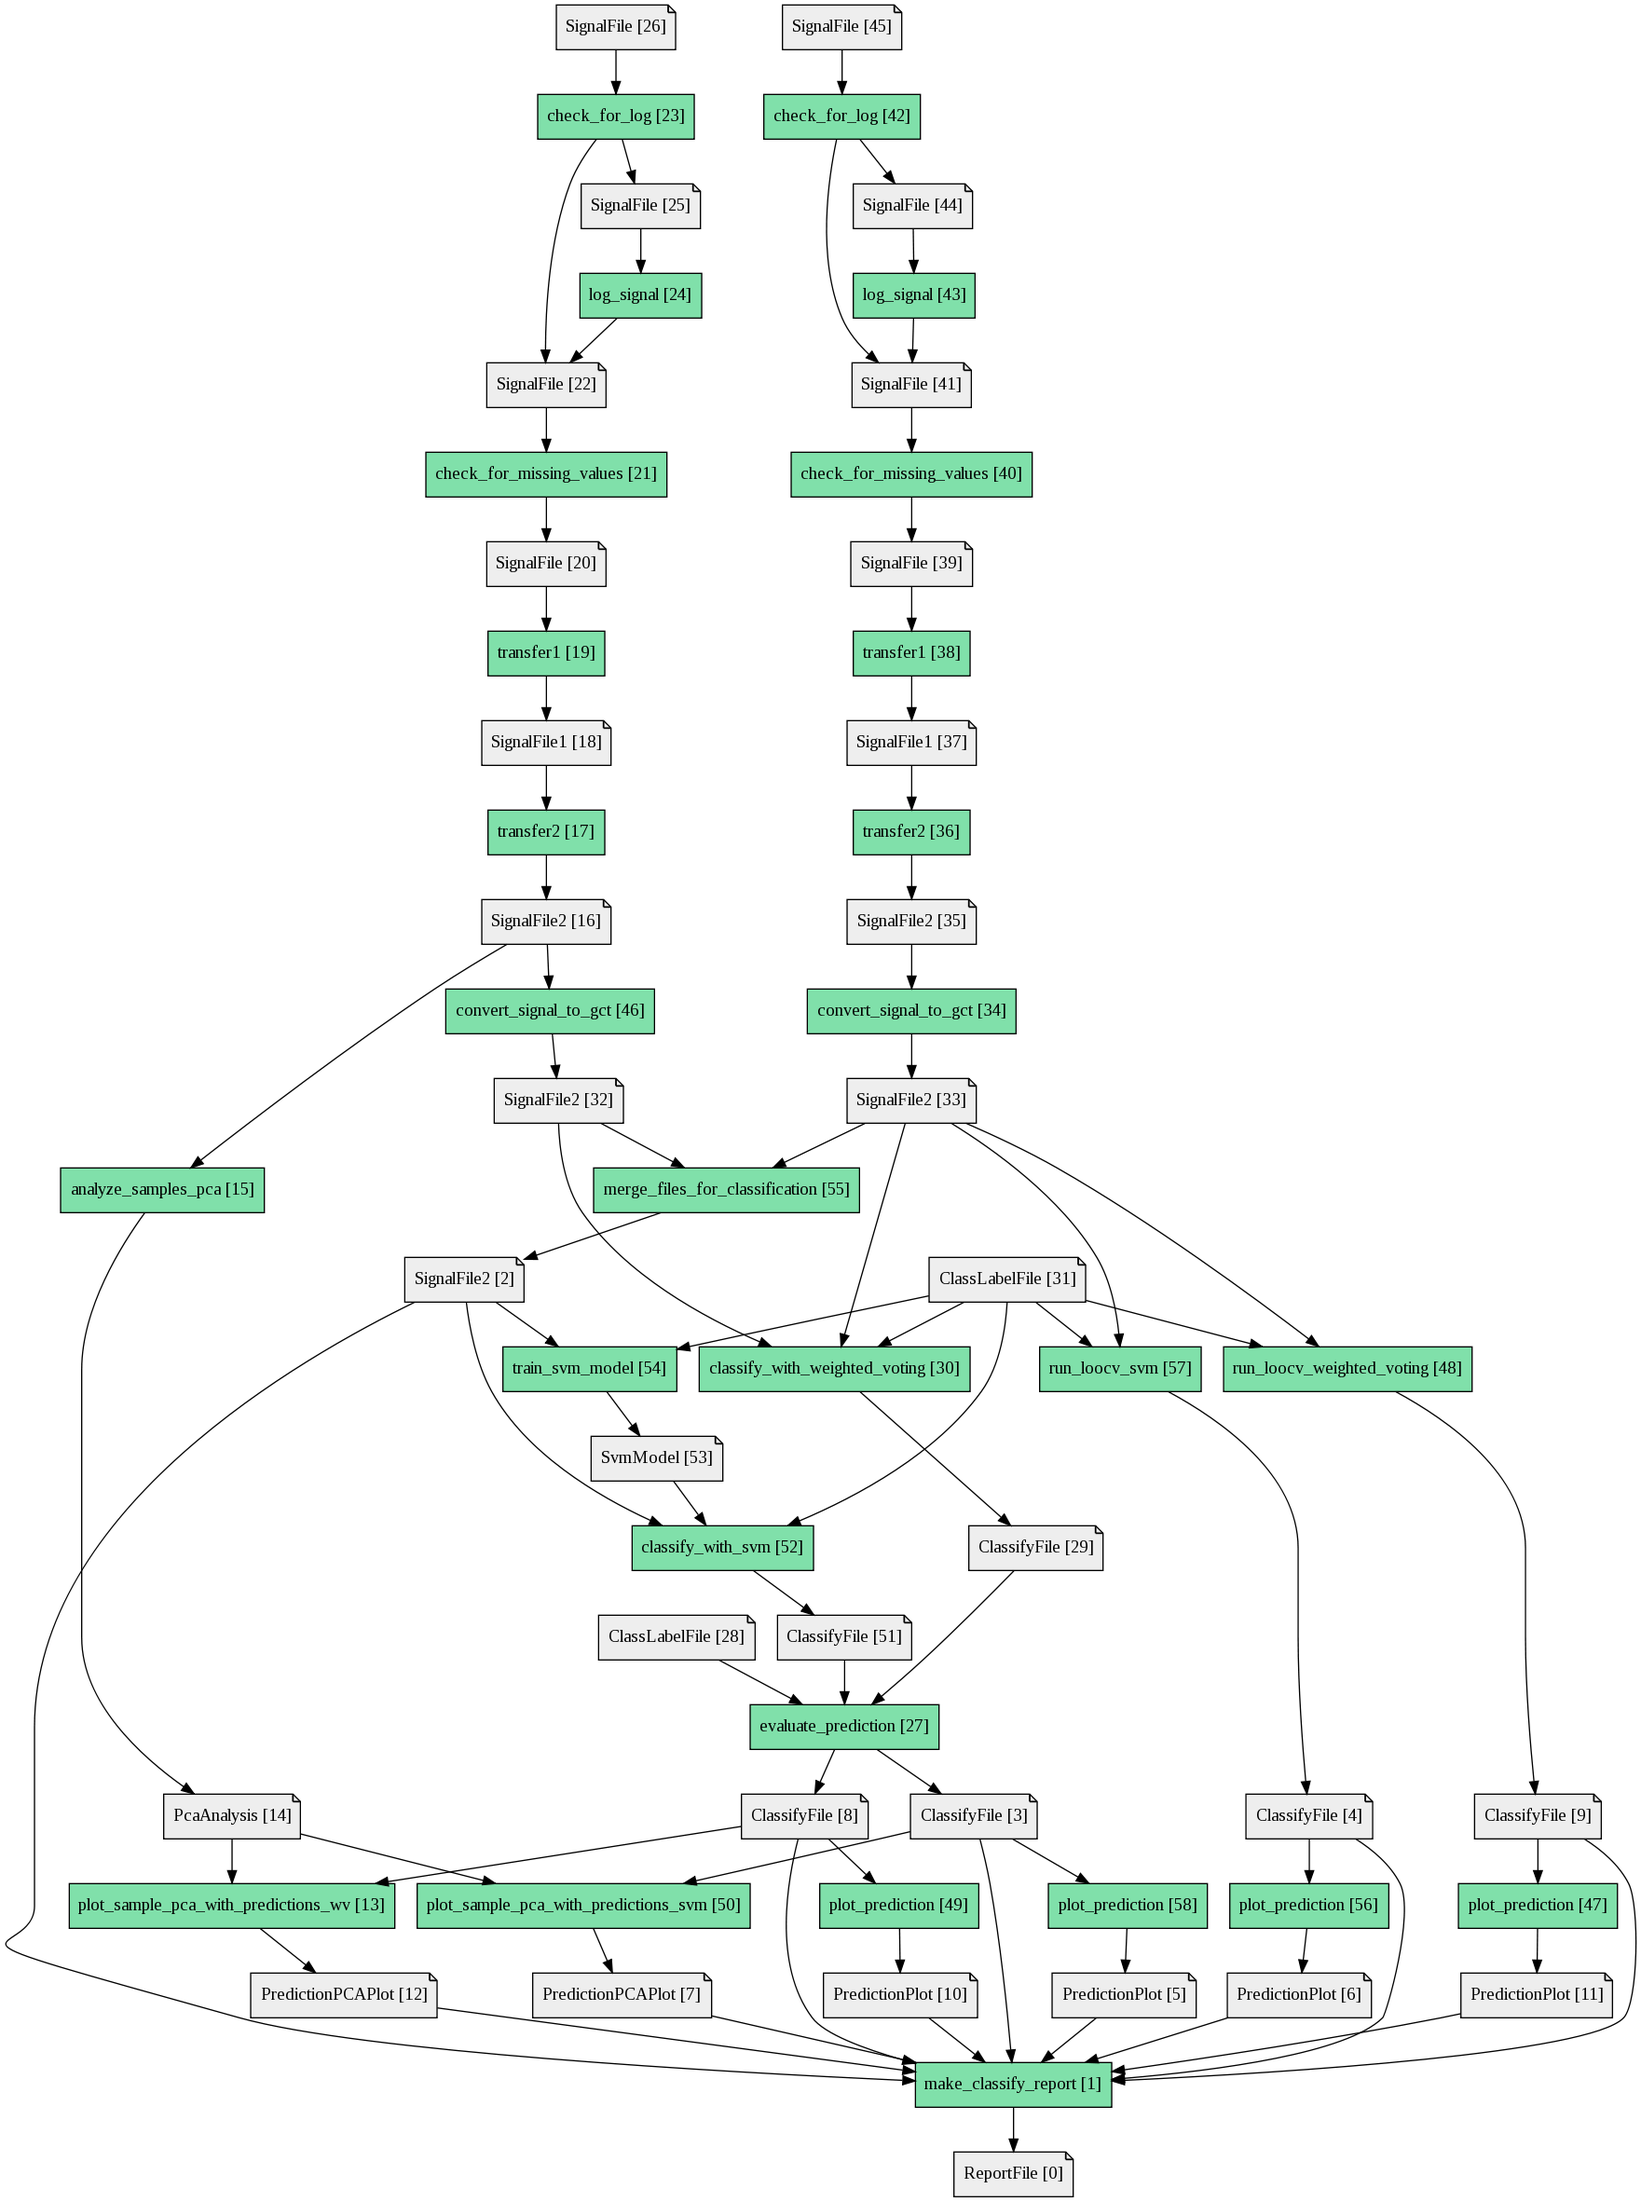
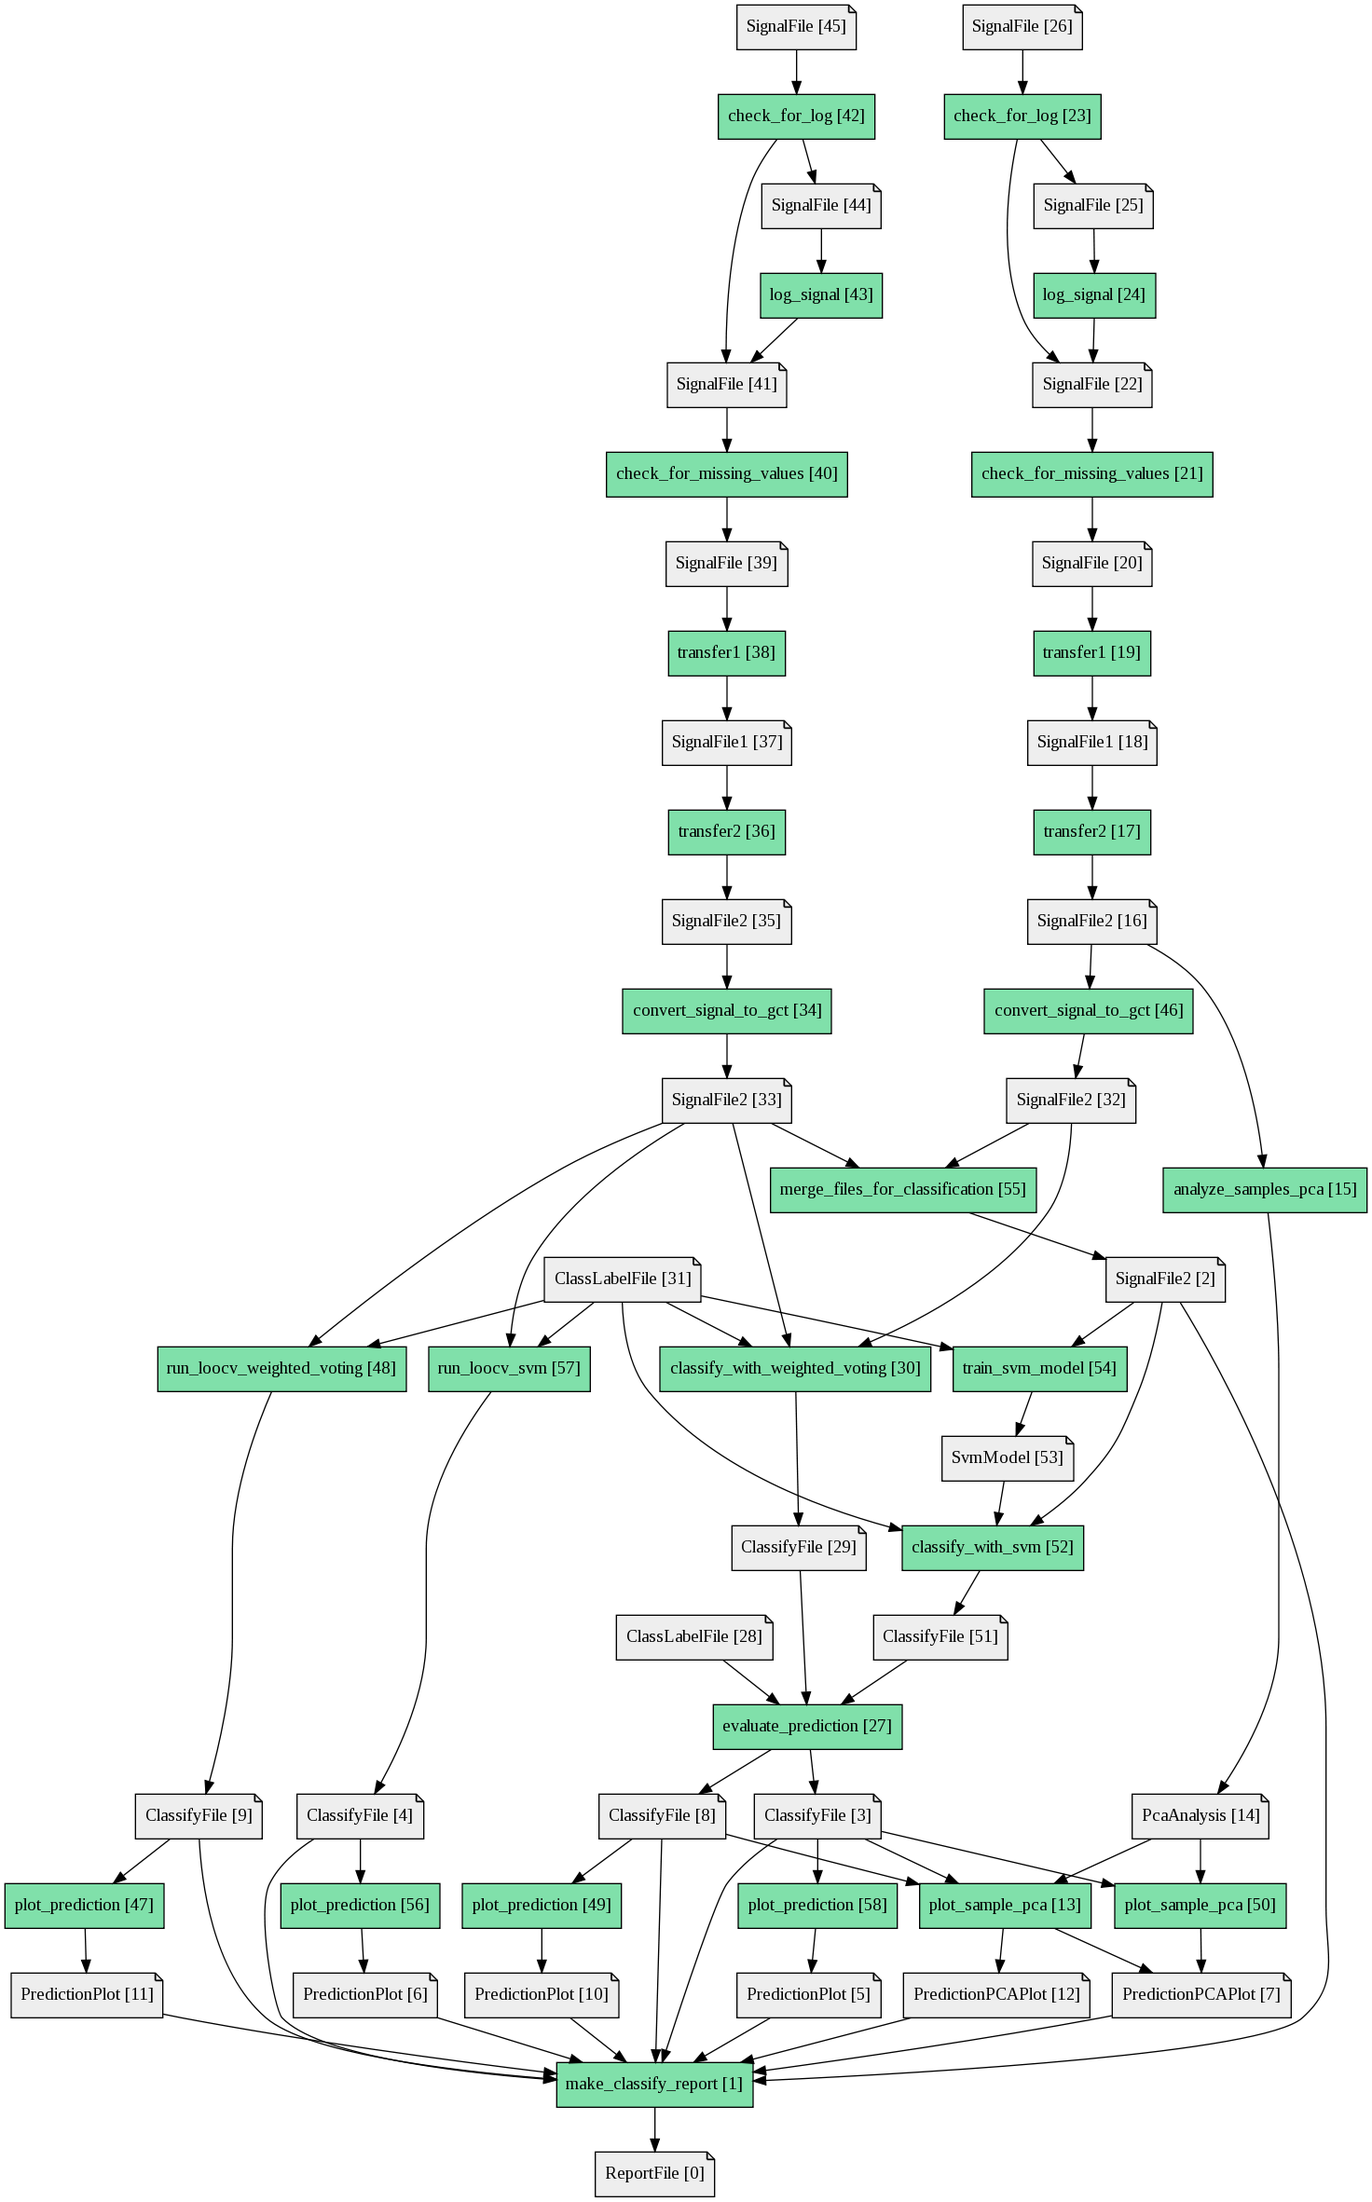
update test_case.py

diff --git a/Betsy_2version/Betsy/modules/run_loocv_svm.py b/Betsy_2version/Betsy/modules/run_loocv_svm.py
@@ -13,11 +13,11 @@ def run(in_nodes,parameters, network):
     M = arrayio.read(data_node.attributes['filename'])
     a,training_label,second_line = read_label_file.read(cls_node.attributes['filename'])
     full_index = range(M.ncol())
-    predict_model = __import__('modules.' + 'classify_with_svm',globals(),
+    predict_model = __import__('Betsy.modules.' + 'classify_with_svm',globals(),
                                  locals(),['classify_with_svm'],-2)
-    train_model = __import__('modules.' + 'train_svm_model',globals(),
+    train_model = __import__('Betsy.modules.' + 'train_svm_model',globals(),
                                  locals(),['train_svm_model'],-2)
-    evaluate_model =  __import__('modules.' + 'evaluate_prediction',globals(),
+    evaluate_model =  __import__('Betsy.modules.' + 'evaluate_prediction',globals(),
                                  locals(),['evaluate_prediction'],-2)  
     f = file(outfile,'w')
     f.write('\t'.join(['sample_name','Predicted_class','Confidence','Actual_class','Correct?']))
@@ -45,10 +45,10 @@ def run(in_nodes,parameters, network):
         for key in rulebase.SvmModel.get_defaults():
             new_parameters[key]=parameters[key]
         x1 = merge_node,train_label_node
-        svm_model = train_model.run(x1,new_parameters)
+        svm_model = train_model.run(x1,new_parameters,network)
         x = svm_model,merge_node,train_label_node
-        out_node = predict_model.run(x,parameters)
-        out_node_label=evaluate_model.run((out_node,test_label_node),new_parameters)
+        out_node = predict_model.run(x,parameters,network)
+        out_node_label=evaluate_model.run((out_node,test_label_node),new_parameters,network)
         f1 = open(out_node_label.attributes['filename'],'r')
         lines = f1.readlines()
         f1.close()

diff --git a/Betsy_2version/scripts/run_protocol.py b/Betsy_2version/scripts/run_protocol.py
@@ -106,28 +106,30 @@ def main():
         in_data.append(eval('rulebase.'+datatype +'('+attributes+')'))
     goal_datatype = eval('rulebase.'+module.OUTPUTS)
     goal_attributes = parameters
-    #print goal_datatype.name
-    #print in_data
-    #print goal_attributes
     if args.describe_protocol:
         print 'INPUTS', module.INPUTS   
         print 'OUTPUTS', module.OUTPUTS  
         print 'PARAMETERS', module.PARAMETERS
     print 'Generating network...'
-    network = bie.backchain(rulebase.all_modules, goal_datatype, goal_attributes)
-    network = bie.optimize_network(network)
-    network = bie.prune_network_by_start(network, in_data)
+##    network = bie.backchain(rulebase.all_modules, goal_datatype, goal_attributes)
+##    network = bie.optimize_network(network)
+##    network = bie.prune_network_by_start(network, in_data)
+    import pickle
+    f=file('network_classify_report','rb')
+    network = pickle.load(f)
+    f.close()
     assert network, ('No network has been generated, '
                        'please check your command.')
     if args.network:
         print args.network
+        bie._print_network(network)
         bie._plot_network_gv(args.network, network)
     if args.dry_run:
         bie._print_network(network)
     else:
-        rule_engine_bie.run_pipeline(network,in_datas)
-        print 'All pipelines have completed successfully.'
-    
+        rule_engine_bie.run_pipeline(network,in_data)
+        print 'The network has completed successfully.'
+       
         
 if __name__ == '__main__':
     main()

diff --git a/Betsy_2version/Betsy/modules/run_loocv_weighted_voting.py b/Betsy_2version/Betsy/modules/run_loocv_weighted_voting.py
@@ -14,9 +14,9 @@ def run(in_nodes,parameters, network):
     a,training_label,second_line = read_label_file.read(
         cls_node.attributes['filename'])
     full_index = range(M.ncol())
-    predict_model = __import__('modules.' + 'classify_with_weighted_voting',globals(),
+    predict_model = __import__('Betsy.modules.' + 'classify_with_weighted_voting',globals(),
                                  locals(),['classify_with_weighted_voting'],-2)
-    evaluate_model =  __import__('modules.' + 'evaluate_prediction',globals(),
+    evaluate_model =  __import__('Betsy.modules.' + 'evaluate_prediction',globals(),
                                  locals(),['evaluate_prediction'],-2)
     f = file(outfile,'w')
     f.write('\t'.join(['sample_name','Predicted_class','Confidence','Actual_class','Correct?']))
@@ -50,8 +50,8 @@ def run(in_nodes,parameters, network):
         test_label_node = rulebase.ClassLabelFile(contents='test',
                                                   filename='test_label'+'_'+str(i))
         x= train_node,test_node,train_label_node
-        out_node = predict_model.run(x,parameters)
-        out_node_label=evaluate_model.run((out_node,test_label_node),parameters)
+        out_node = predict_model.run(x,parameters,network)
+        out_node_label=evaluate_model.run((out_node,test_label_node),parameters,network)
         f1 = open(out_node_label.attributes['filename'],'r')
         lines = f1.readlines()
         f1.close()

diff --git a/Betsy_2version/Betsy/modules/run_loocv_random_forest.py b/Betsy_2version/Betsy/modules/run_loocv_random_forest.py
@@ -13,9 +13,9 @@ def run(in_nodes,parameters, network):
     M = arrayio.read(data_node.attributes['filename'])
     a,training_label,second_line = read_label_file.read(cls_node.attributes['filename'])
     full_index = range(M.ncol())
-    predict_model = __import__('modules.' + 'classify_with_random_forest',globals(),
+    predict_model = __import__('Betsy.modules.' + 'classify_with_random_forest',globals(),
                                  locals(),['classify_with_random_forest'],-2)
-    evaluate_model =  __import__('modules.' + 'evaluate_prediction',globals(),
+    evaluate_model =  __import__('Betsy.modules.' + 'evaluate_prediction',globals(),
                                  locals(),['evaluate_prediction'],-2)  
     f = file(outfile,'w')
     f.write('\t'.join(['sample_name','Predicted_class','Confidence','Actual_class','Correct?']))
@@ -43,8 +43,8 @@ def run(in_nodes,parameters, network):
         for key in rulebase.SvmModel.get_defaults():
             new_parameters[key]=parameters[key]
         x = merge_node,train_label_node
-        out_node = predict_model.run(x,parameters)
-        out_node_label=evaluate_model.run((out_node,test_label_node),new_parameters)
+        out_node = predict_model.run(x,parameters,network)
+        out_node_label=evaluate_model.run((out_node,test_label_node),new_parameters,network)
         f1 = open(out_node_label.attributes['filename'],'r')
         lines = f1.readlines()
         f1.close()

diff --git a/Betsy_2version/Betsy/bie_rules/ClassifyFile_rule.py b/Betsy_2version/Betsy/bie_rules/ClassifyFile_rule.py
@@ -117,18 +117,14 @@ all_modules = [
                         actual_label=['yes','no'],loocv=['yes','no']),
          PredictionPlot(classify_alg=['weighted_voting','svm','random_forest'],
                         actual_label=['yes','no'],loocv=['yes','no'])),
+
     bie.Module(
-        'plot_sample_pca_with_predictions_svm',
-         [ClassifyFile(classify_alg='svm',
-                        actual_label=['yes','no'],loocv=['yes','no']),
+        'plot_sample_pca_with_predictions',
+         [ClassifyFile(classify_alg=['svm','weighted_voting',
+                                     'random_forest'],actual_label=['yes','no'],
+                       loocv=['yes','no']),
           PcaAnalysis_rule.PcaAnalysis(process='after',contents='test')],
-          PredictionPCAPlot(classify_alg='svm',
-                        actual_label=['yes','no'],loocv=['yes','no'])),
-    bie.Module(
-        'plot_sample_pca_with_predictions_wv',
-         [ClassifyFile(classify_alg='weighted_voting',
-                        actual_label=['yes','no'],loocv=['yes','no']),
-          PcaAnalysis_rule.PcaAnalysis(process='after',contents='test')],
-          PredictionPCAPlot(classify_alg='weighted_voting',
+          PredictionPCAPlot(classify_alg=['svm','weighted_voting',
+                                     'random_forest'],
                         actual_label=['yes','no'],loocv=['yes','no'])),
     ]

diff --git a/Betsy_2version/scripts/temp_testcase.py b/Betsy_2version/scripts/temp_testcase.py
@@ -290,5 +290,34 @@
 ##    f=file('network_genesetnetwork','wb')
 ##    pickle.dump(network,f)
 ##    f.close()
-#import cProfile; cProfile.run("test_bie()")
+from Betsy import rulebase
+from Betsy import bie
+def test_bie():
+     in_data=[
+        rulebase.SignalFile(
+            preprocess="rma", format="jeffs",
+            filename='/home/xchen/chencode/betsy_test/all_aml_train.res'),
+        rulebase.ClassLabelFile(
+            filename='/home/xchen/chencode/betsy_test/all_aml_train.cls',
+            cls_format='cls')
+        ]
+     goal_datatype = rulebase.SignalFile
+     goal_attributes = dict(
+        format='tdf', logged='yes', preprocess="rma",
+        missing_values='no',combat_norm='yes',quantile_norm='yes'
+        )
+
+     network = bie.backchain(
+        rulebase.all_modules, goal_datatype, goal_attributes)
+     network = bie.optimize_network(network)
+     network = bie.prune_network_by_start(network, in_data)
+ 
+     #order by quantile and then combat
+     network = bie.prune_network_by_internal(
+        network, rulebase.SignalFile(quantile_norm="yes", combat_norm="no"))
+
+     bie._print_network(network)
+     bie._plot_network_gv("out.png", network)
+
+import cProfile; cProfile.run("test_bie()")
 #test_bie()

diff --git a/Betsy_2version/scripts/test_case.py b/Betsy_2version/scripts/test_case.py
@@ -155,14 +155,35 @@ def run_case6():
     bie._print_network(network)
     bie._plot_network_gv("out.png", network)
 
+def run_case7():
+    in_data = [
+        rulebase.SignalFile(
+            contents='class0', format='tdf',
+            filename='/home/xchen/chencode/betsy_test/all_aml_train.res'),
+        ]
+    
+    goal_datatype = rulebase.SignalFile2
+    goal_attributes = dict(contents='class0',quantile_norm='yes',
+                           bfrm_norm='yes',gene_center='mean',
+                           gene_normalize='variance')
+
+    network = bie.backchain(
+        rulebase.all_modules, goal_datatype, goal_attributes)
+    network = bie.optimize_network(network)
+    network = bie.prune_network_by_start(network, in_data)
+    bie._print_network(network)
+    bie._plot_network_gv("out.png", network)
 
 def main():
-    run_case1()
+    import cProfile 
+    #run_case1()
     #run_case2()
     #run_case3()
     #run_case4()
     #run_case5()
     #run_case6()
+    #run_case7()
+    cProfile.run("run_case7()")
 
 
 if __name__ == '__main__':

diff --git a/Betsy_2version/Betsy/rule_engine_bie.py b/Betsy_2version/Betsy/rule_engine_bie.py
@@ -374,6 +374,7 @@ def run_module(network, module_id, module_node, pool, pipeline_sequence,
     os.chdir(working_dir)
     out_nodes = get_outnode(
         network, module_id, module, current_attributes, pool)
+    assert out_nodes,'module %s fails' %module_node.name
     return out_nodes
 
 def run_pipeline(network, in_data):
@@ -431,11 +432,11 @@ def run_pipeline(network, in_data):
                     if stack_list:
                         stack_list.insert(0,(data_node, node_id))
                         num_failures += 1
-        if not stack_list and node_id > 0: # if stack_list empty but have not find node 0
+        if not stack_list and node_id > 0 : # if stack_list empty but have not find node 0
             assert ValueError('cannot find the final node')
     except Exception, x:
             raise
-    
+    return True
 
 
 

diff --git a/Betsy_2version/Betsy/bie_rules/ClusterFile_rule.py b/Betsy_2version/Betsy/bie_rules/ClusterFile_rule.py
@@ -6,7 +6,7 @@ ClusterFile = bie.DataType(
     # Properties of the format.
     bie.Attribute(filename=bie.ANYATOM, DEFAULT="", OPTIONAL=True),
     bie.Attribute(cluster_alg=['som','pca','kmeans','hierarchical'],DEFAULT='kmeans'),
-    bie.Attribute(distance=['correlation','euclidean'],DEFAULT='euclidean'),
+    bie.Attribute(distance=['correlation','euclidean'],DEFAULT='correlation'),
     bie.Attribute(k=bie.ANYATOM,DEFAULT='5'))
 
 

diff --git a/Betsy_2version/Betsy/modules/evaluate_prediction.py b/Betsy_2version/Betsy/modules/evaluate_prediction.py
@@ -60,5 +60,4 @@ def find_antecedents(network, module_id,data_nodes,parameters):
     cls_node_test = module_utils.get_identifier(network, module_id,
                                             data_nodes,contents='test',
                                             datatype='ClassLabelFile')
-    print 'input',data_node
     return data_node,cls_node_test

diff --git a/web2py/parameters_8080.py b/web2py/parameters_8080.py
@@ -1,1 +1,1 @@
-password="pbkdf2(1000,20,sha512)$86d183d9742901ac$b4b454c4d293cf11d07ac98443b1429678541f08"
+password="pbkdf2(1000,20,sha512)$b12a9121322d2019$9bafb5756f62ca1966e9f80a4d4165f856e5450d"

diff --git a/Betsy_2version/Betsy/modules/rank_genes_by_sample_ttest.py b/Betsy_2version/Betsy/modules/rank_genes_by_sample_ttest.py
@@ -1,6 +1,5 @@
 #rank_genes_by_sample_ttest.py
-#from Betsy
-import gene_ranking
+from Betsy import gene_ranking
 from Betsy import module_utils
 import shutil
 import os
